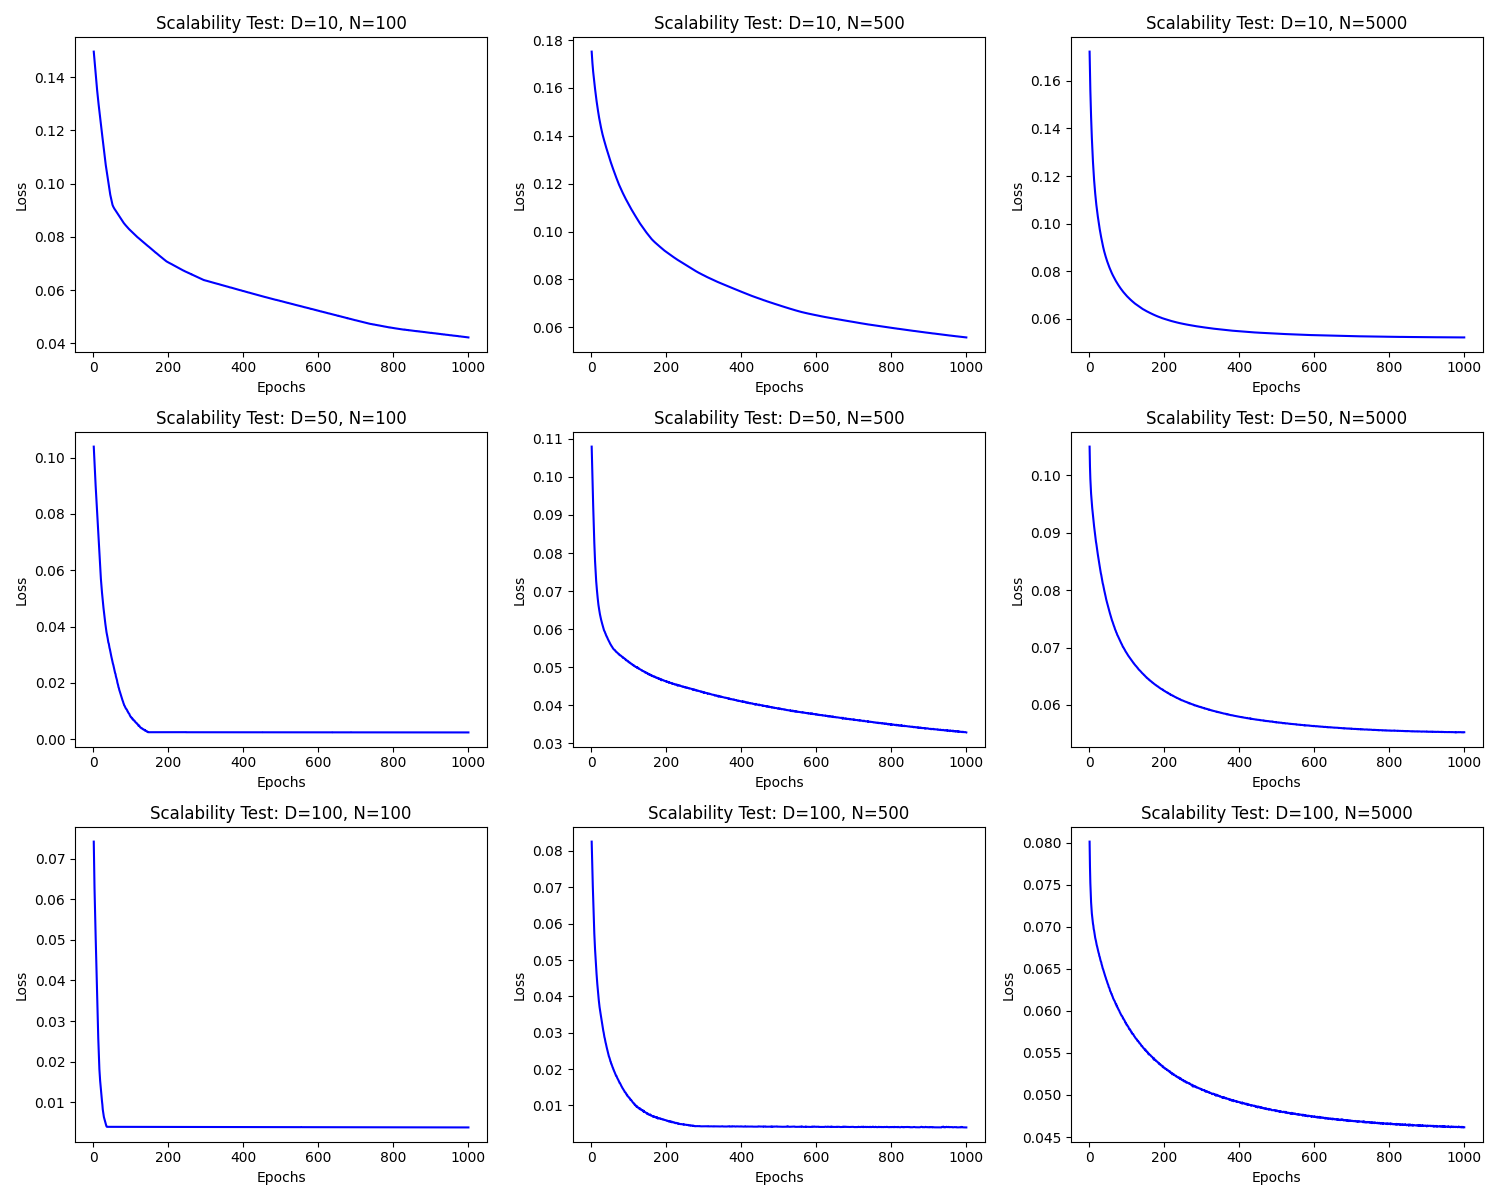
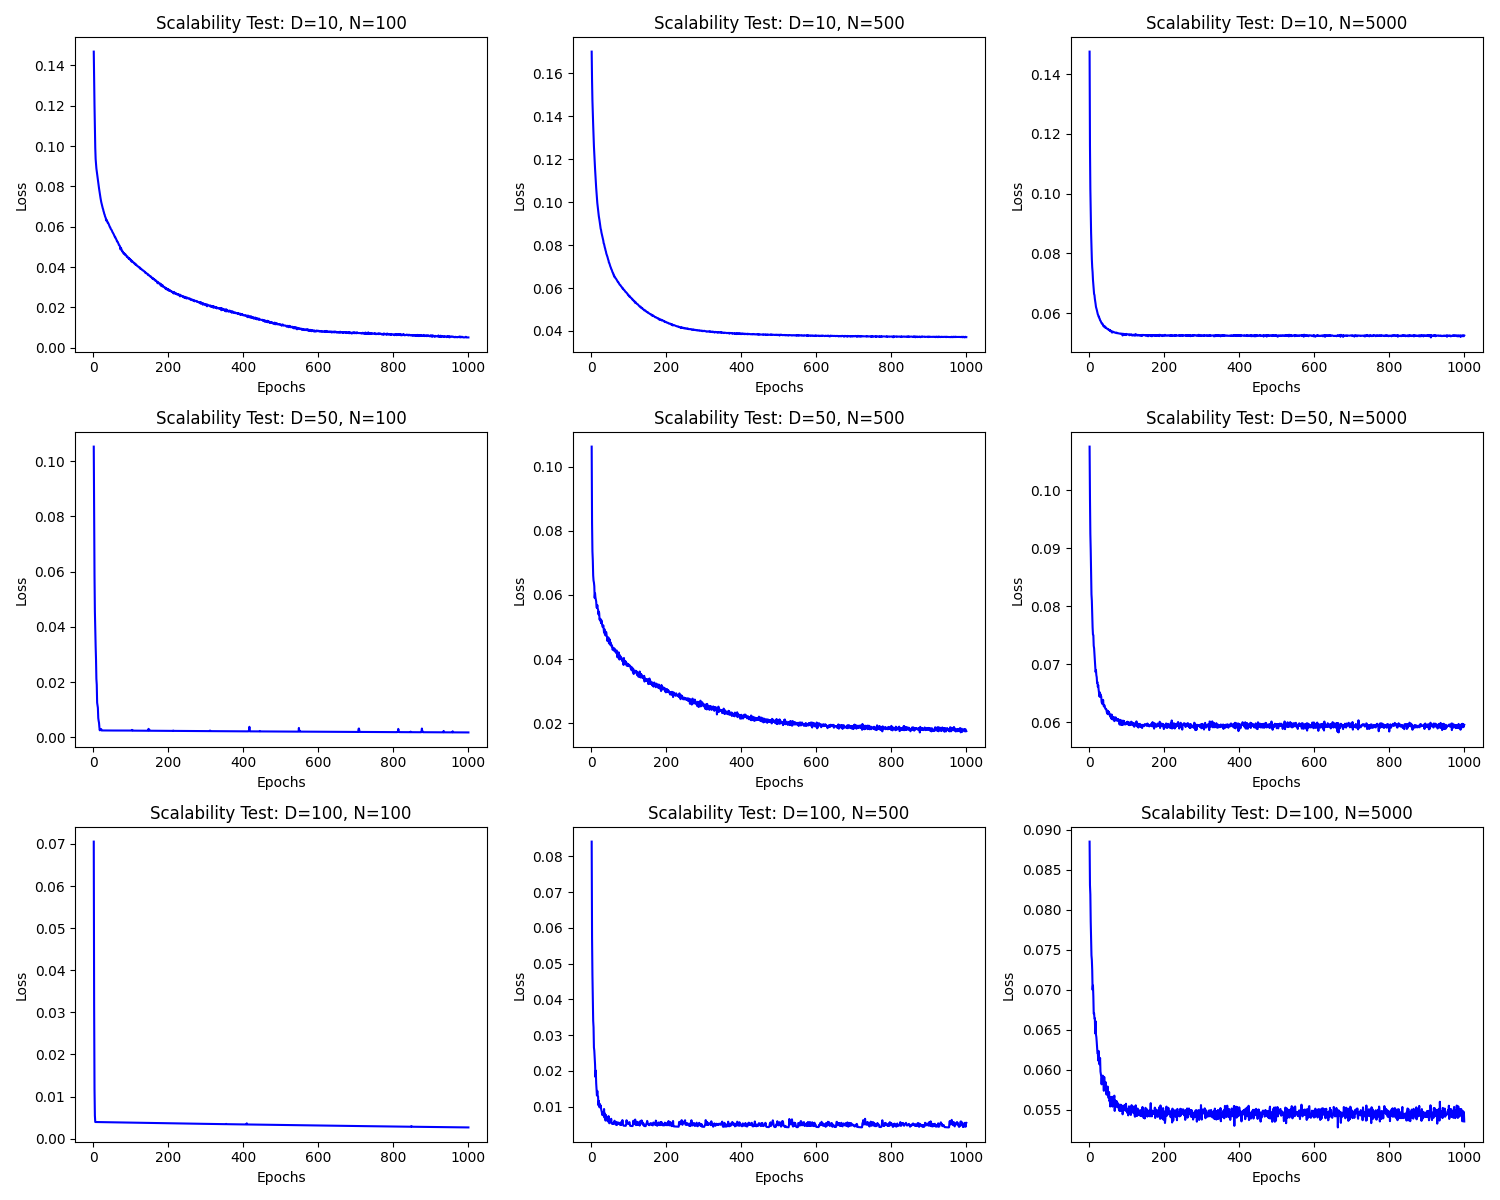
updated values for task 3 test

diff --git a/Assignment2/LinearSVC.py b/Assignment2/LinearSVC.py
@@ -196,7 +196,7 @@ if __name__ == "__main__":
     X,X_test, Y, Y_test = make_classification(d=2, n=100, u=10,random_state=1)
     X_combined = np.vstack((X, X_test))
     y_combined = np.hstack((Y, Y_test))
-    svc = LinearSVC(eta=0.0001, n_iter=1000, C=10.0)
+    svc = LinearSVC(eta=0.00001, n_iter=1000, C=1.0)
     svc.fit(X, Y)
     plot_decision_regions(X_combined, y_combined,classifier=svc,test_idx=range(len(X),len(X_combined)))
     plt.legend(loc='upper left')
@@ -208,7 +208,7 @@ if __name__ == "__main__":
 
     generate_and_save_datasets(d_scales, n_scales)
     #Task 3
-    svc = LinearSVC(eta=0.0000001, n_iter=1000, C=1.0)
+    svc = LinearSVC(eta=0.00001, n_iter=1000, C=1.0)
     df_results = run_scalability_test(svc, d_scales, n_scales)
 
 
